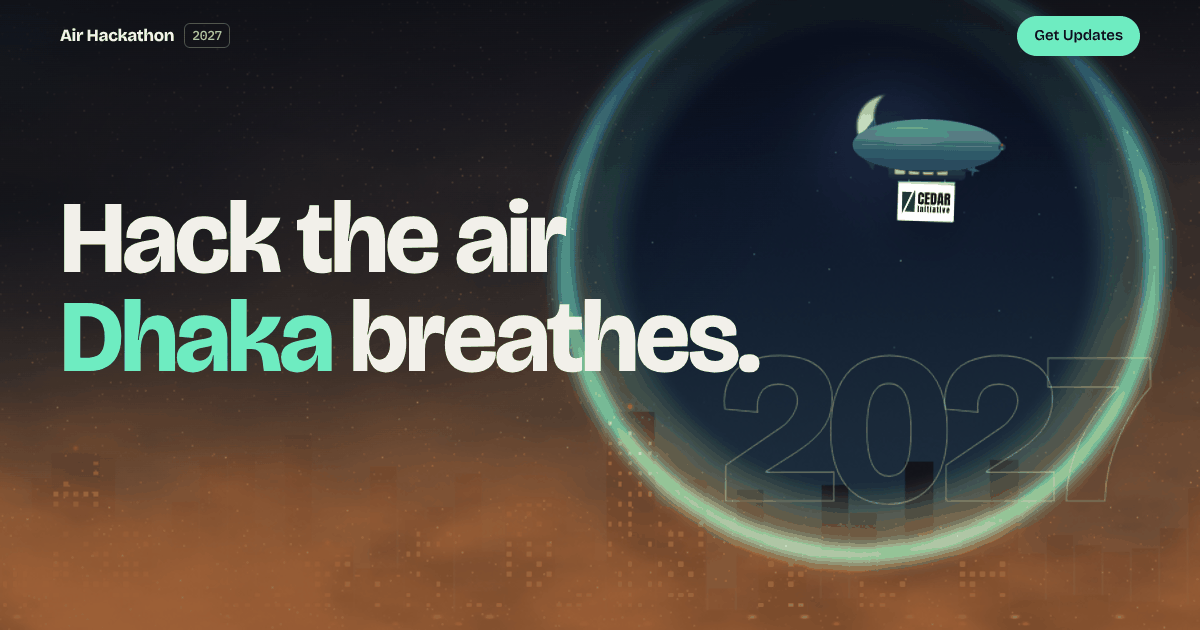
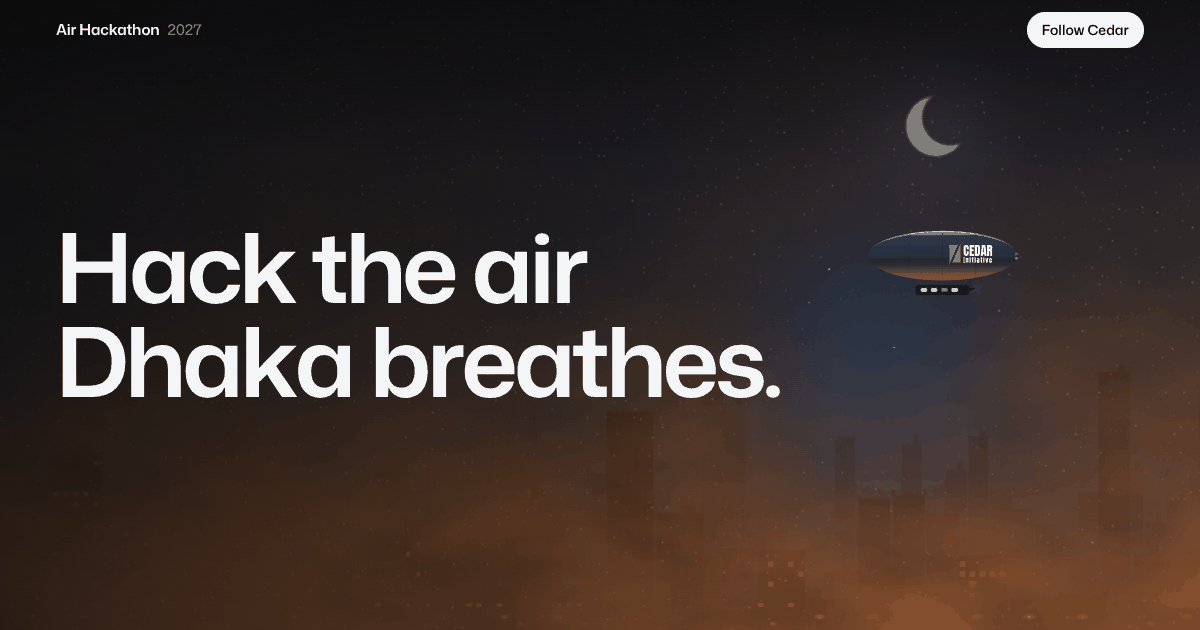
Close tab-column gap, add DESIGN.md and token sidecar, new share image
Claude-Session: https://claude.ai/code/session_01PLjxs9gojnvnkfifEyHNp5

diff --git a/index.html b/index.html
@@ -329,10 +329,10 @@
     .day-axis .safe { color: var(--safe); }
 
     /* ── Problems: tabs ── */
-    .tabs { display: grid; grid-template-columns: minmax(0, 4fr) minmax(0, 8fr); border: 1px solid var(--line); border-radius: var(--r-l); overflow: clip; background: var(--bg-1); min-height: 480px; }
-    .tablist { display: grid; grid-template-rows: auto auto auto 1fr; border-right: 1px solid var(--line); }
+    .tabs { display: grid; grid-template-columns: minmax(0, 4fr) minmax(0, 8fr); border: 1px solid var(--line); border-radius: var(--r-l); overflow: clip; background: var(--bg-1); }
+    .tablist { display: grid; align-content: start; border-right: 1px solid var(--line); }
     .tab-d { font-size: 0.875rem; color: var(--ink-2); line-height: 1.4; }
-    .tab-note { align-self: end; padding: 24px clamp(20px, 2.4vw, 28px); font-size: 0.8125rem; color: var(--ink-2); }
+    .tab-note { padding: 20px clamp(20px, 2.4vw, 28px); font-size: 0.8125rem; color: var(--ink-2); }
     .tab { all: unset; box-sizing: border-box; display: grid; align-content: center; gap: 6px; padding: 24px clamp(20px, 2.4vw, 28px); border-bottom: 1px solid var(--line); cursor: pointer; color: var(--ink-2); transition: color 160ms ease, background-color 160ms ease; position: relative; }
     .tab[aria-selected="true"] { color: var(--ink); background: var(--bg-2); }
     .tab:focus-visible { outline: 2px solid var(--ink); outline-offset: -2px; }

diff --git a/DESIGN.md b/DESIGN.md
@@ -1,0 +1,143 @@
+---
+name: Air Hackathon 2027
+description: A dark, precise product page whose product is Dhaka's live air.
+colors:
+  bg: "#08090a"
+  bg-raised: "#0e0f11"
+  bg-raised-2: "#141518"
+  ink: "#f4f5f6"
+  ink-2: "#9ba1ab"
+  ink-3: "#737983"
+  line: "rgb(255 255 255 / 0.08)"
+  line-2: "rgb(255 255 255 / 0.14)"
+  line-3: "rgb(255 255 255 / 0.24)"
+  safe: "#8fdcc2"
+  smog: "#e4a660"
+  cedar: "#2e7a46"
+  aqi-good: "#3fae5a"
+  aqi-moderate: "#e3c11d"
+  aqi-sensitive: "#f08a24"
+  aqi-unhealthy: "#e0403a"
+  aqi-very-unhealthy: "#9b59b6"
+  aqi-hazardous: "#a3283f"
+typography:
+  display:
+    fontFamily: "Mona Sans, ui-sans-serif, system-ui, sans-serif"
+    fontSize: "clamp(3rem, 1.4rem + 6.4vw, 6rem)"
+    fontWeight: 620
+    lineHeight: 0.98
+    letterSpacing: "-0.038em"
+  headline:
+    fontFamily: "Mona Sans, ui-sans-serif, system-ui, sans-serif"
+    fontSize: "clamp(2.25rem, 1.5rem + 2.8vw, 3.75rem)"
+    fontWeight: 600
+    lineHeight: 1.02
+    letterSpacing: "-0.035em"
+  statement:
+    fontFamily: "Mona Sans, ui-sans-serif, system-ui, sans-serif"
+    fontSize: "clamp(1.75rem, 1.1rem + 2.5vw, 3.25rem)"
+    fontWeight: 560
+    lineHeight: 1.2
+    letterSpacing: "-0.028em"
+  body:
+    fontFamily: "Mona Sans, ui-sans-serif, system-ui, sans-serif"
+    fontSize: "1.0625rem"
+    fontWeight: 400
+    lineHeight: 1.55
+    letterSpacing: "0em"
+  label:
+    fontFamily: "Mona Sans, ui-sans-serif, system-ui, sans-serif"
+    fontSize: "0.8125rem"
+    fontWeight: 400
+    lineHeight: 1.4
+    letterSpacing: "0em"
+  bangla-display:
+    fontFamily: "Anek Bangla, Noto Sans Bengali, sans-serif"
+    fontSize: "min(12.5rem, 17vw)"
+    fontWeight: 600
+    lineHeight: 1.05
+    letterSpacing: "0em"
+rounded:
+  s: "6px"
+  m: "10px"
+  l: "16px"
+  pill: "999px"
+spacing:
+  gutter: "max(20px, min(5vw, 56px))"
+  cell: "clamp(20px, 2.4vw, 32px)"
+  section: "clamp(96px, 14vh, 160px)"
+  max-width: "1200px"
+components:
+  button-primary:
+    backgroundColor: "{colors.ink}"
+    textColor: "{colors.bg}"
+    rounded: "{rounded.pill}"
+    padding: "0 18px"
+    height: "44px"
+  button-primary-hover:
+    backgroundColor: "#ffffff"
+  button-ghost:
+    backgroundColor: "rgb(8 9 10 / 0.4)"
+    textColor: "{colors.ink}"
+    rounded: "{rounded.pill}"
+    padding: "0 18px"
+    height: "44px"
+  panel:
+    backgroundColor: "{colors.bg-raised}"
+    rounded: "{rounded.l}"
+    padding: "{spacing.cell}"
+  tab-selected:
+    backgroundColor: "{colors.bg-raised-2}"
+    textColor: "{colors.ink}"
+  chip:
+    textColor: "{colors.ink-2}"
+    rounded: "{rounded.pill}"
+    padding: "6px 10px"
+---
+
+# Design System: Air Hackathon 2027
+
+## Overview
+
+The category standard played straight, at the craft level of Linear, Vercel and Apple product pages: one near-black world, one typeface, hairline structure. The "product" on show is Dhaka's live air. A full-screen WebGL sky (a layered Dhaka skyline under smog whose density comes from the live PM2.5 reading) sits behind the hero and the pinned 48-hour section; every other section is opaque `bg`. The page refuses neon glows, gradient blobs, glass cards, countdowns, sponsor walls and eyebrow labels.
+
+## Colors
+
+- **Ground and ink:** `bg` #08090a carries every section. `bg-raised` and `bg-raised-2` lift panels and the selected tab. Text is `ink`, secondary text `ink-2` (7.4:1), tertiary meta `ink-3` (4.6:1, meta only, never on `bg-raised-2`).
+- **Structure:** hairlines in `line` / `line-2` / `line-3`, white at 8 / 14 / 24 % opacity.
+- **Colour only ever encodes data.** `smog` amber marks pollution figures, `safe` mint marks the WHO guideline line and safe air, and the six US EPA AQI band colours mark readings. Nothing decorative is coloured. `cedar` green appears only inside the Cedar Initiative logo.
+
+## Typography
+
+Mona Sans for every Latin line, using its width axis for display (`font-stretch` 102 to 104 %). Display headlines run tight (-0.038em) and stay on two lines. Section headlines use `headline`; the scroll-lit paragraph uses `statement`. Body copy is 17 px at 1.55. Tabular figures only on numbers that tick (the breath counters); Mona's tabular zero is dotted, so static figures stay proportional. Anek Bangla appears once, for the closing line "নির্মল বাতাস", loaded as a subset of only those characters.
+
+## Layout
+
+A 1200 px column with a fluid gutter. Every section after the hero is one or two screens tall with generous block padding (`section`). Data sits in a 12-column hairline grid inside a rounded panel: cells are separated by 1 px rules, never by gaps or shadows. The hero is exactly one viewport: headline upper left, the airship in the right half below the moon, and a live readings bar pinned to its bottom edge. The 48-hour section is 400 vh with a sticky viewport. Below 1000 px, grids collapse to one column and the tab list becomes three horizontal tabs. Below 720 px, the live bar becomes a 3-cell grid (AQI, PM2.5, WHO multiple) with Pause as its own row.
+
+## Elevation & Depth
+
+Depth comes from the WebGL sky and from surface steps (`bg` → `bg-raised` → `bg-raised-2`), not from shadows. The only shadows are on floating UI: the command menu (0 24px 64px -16px black 70 %) and the example alert card. The nav gains a blurred `bg` at 82 % only once the page scrolls, for legibility over the sky.
+
+## Shapes
+
+Radii: `s` 6 px for small boxes, `m` 10 px for menu rows, `l` 16 px for panels and the dialog, `pill` for buttons and chips. Nested radii stay concentric (menu rows at 10 px inside 6 px padding in a 16 px dialog). Circles mark points in data (AQI dot, timeline markers, scrub head).
+
+## Components
+
+- **Buttons:** primary is solid `ink` on `bg`, ghost is a hairline pill. Both are 44 px tall, press to `scale(0.96)` in 160 ms, and change colour on hover only for `(hover: hover) and (pointer: fine)`. Labels are Title Case, following Vercel's Web Interface Guidelines.
+- **Live readings bar:** hairline cells, label in `label` style over a 15 px value, with the global Pause control at the end.
+- **Data panel:** the hairline grid described in Layout; the big AQI figure is a proportional 9rem numeral.
+- **Tabs:** ARIA tabs with arrow keys and Home/End. Selection is shown by `bg-raised-2` plus `ink`; on mobile, by a 2 px bottom rule. Each tab carries a title and a one-line description, never a label above it.
+- **Timeline:** a hairline with three markers; the current stage's marker is filled `ink`, and the rest are outlined with `ink-2` headings.
+- **Command menu (Cmd/Ctrl+K):** a native dialog with combobox and listbox semantics. It opens and closes with no animation because it is keyboard-triggered.
+- **Motion:** one authored entrance (the sky resolves from black and headline characters rise in sequence, 22 ms apart, ease `cubic-bezier(0.16, 1, 0.3, 1)`). The statement lights word by word with scroll; the 48-hour scrub drives the sky. Every other transition is ≤ 240 ms ease-out. Everything pauses with the global Pause control and starts paused under `prefers-reduced-motion`.
+
+## Do's and Don'ts
+
+- Do let live data drive the visuals (sky density, chart, alert copy). Don't use demonstration numbers without labelling them illustrative.
+- Do keep colour for data. Don't add accent colour to decoration, gradients outside the WebGL sky, or glows.
+- Do separate grid cells with hairlines. Don't use cards-in-cards or drop shadows on in-page panels.
+- Don't put eyebrow or kicker labels above headings, or a coloured side stripe on selected items.
+- Don't animate keyboard-triggered UI, and don't gate meaning on motion; every animated state also has a static cue.
+- Don't invent facts about the event: dates, venue, prizes and partners stay "not set yet" until they exist.

diff --git a/README.md b/README.md
@@ -6,15 +6,11 @@ A single static page (`index.html`), no build step. It deploys to GitHub Pages f
 
 ## How it works
 
-- **Intro:** a short "inhale" loader that opens into the city, shown once per session. Click or any key skips it.
-- **The sky** is one WebGL shader behind the page: a procedural Dhaka skyline with traffic, tower beacons, a plane, and a sun or moon that the smog dims and reddens. Smog density follows the live PM2.5 reading and drifts with the live wind. The pointer clears it (and reveals stars at night), and clicking the sky fires a purifier shockwave.
-- **Airship:** flies the Cedar Initiative banner. Drag and throw it; it springs back to its route.
-- **Live air:** [Open-Meteo](https://open-meteo.com) air-quality and weather APIs, no key needed, refreshed every 10 minutes. There's a scrolling ticker in the header plus a full panel. Location is only requested when the visitor presses **Use My Location**.
-- **Your breath:** counts the litres of air and micrograms of PM2.5 inhaled since the page opened, with a guided breathing orb and a cigarette comparison (Berkeley Earth's 22 µg/m³ ≈ 1 cigarette/day rule).
-- **48 hours:** a pinned scroll section. Scrolling scrubs through the real hourly PM2.5 from yesterday into tomorrow's forecast, and the sky, sun, moon and smog change with it.
-- **Command menu:** ⌘K / Ctrl K opens it (it's also the menu button on phones). Commands cover theme, motion, sound, location, copying the reading and jumping to sections.
-- **Accessibility:** the sun/moon theme toggle follows the system setting by default. A Pause button stops all motion (WCAG 2.2.2), and with `prefers-reduced-motion` everything starts paused. City sound is opt-in.
+- **Design:** a dark product page at Linear/Vercel/Apple craft, built through the Impeccable workflow. `PRODUCT.md` holds the product facts, `DESIGN.md` the design system, and `.impeccable/surfaces/` the direction contract.
+- **The sky:** a WebGL Dhaka skyline (layered, with water tanks and a minaret) under smog whose density comes from the live PM2.5 reading. The pointer thins the smog, and clicking the sky fires a purifier pulse. An airship flies the Cedar Initiative livery; you can drag and throw it.
+- **Live data:** [Open-Meteo](https://open-meteo.com) air-quality and weather APIs, refreshed every 10 minutes. It feeds the readings bar, the data panel, the breath counter, the pinned 48-hour scrub (the sky follows each hour), the forecast chart and the example alert.
+- **Controls:** the Cmd/Ctrl+K command menu, opt-in city sound tied to wind speed, and a Pause button that stops all motion. `prefers-reduced-motion` starts the page paused.
 
 ## Editing
 
-Copy for the problems and the 2027 plan sits in plain HTML in `index.html`. Change the plan steps once dates and venue are confirmed.
+Copy lives in plain HTML in `index.html`. Update the 2027 plan once dates and venue are confirmed, and keep `PRODUCT.md` in step.
